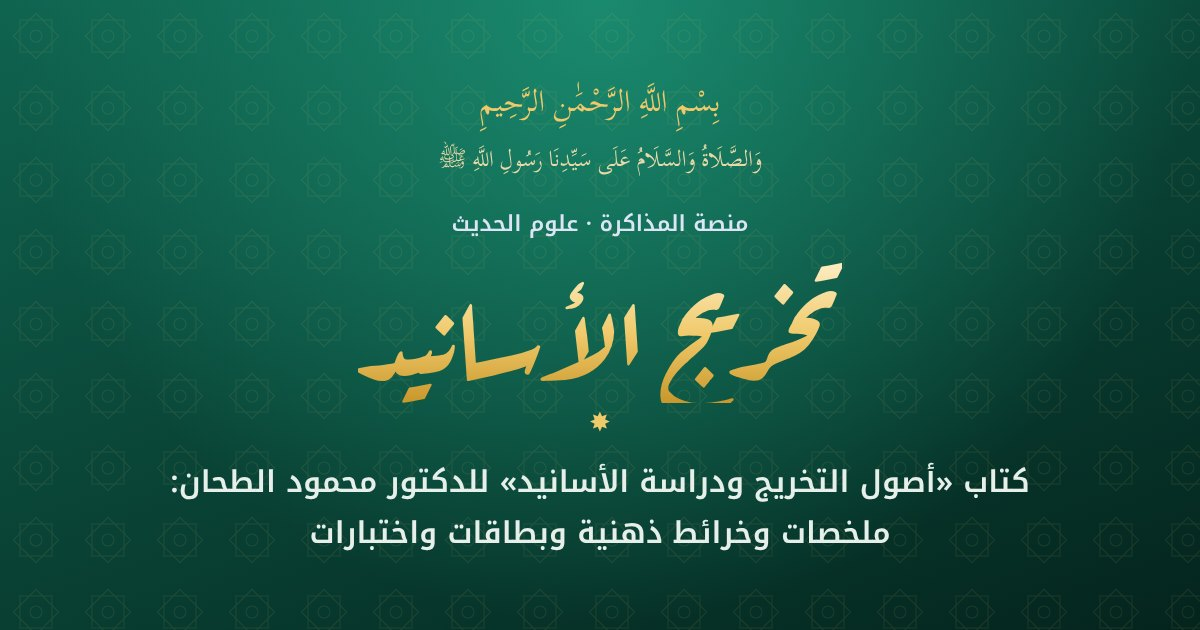
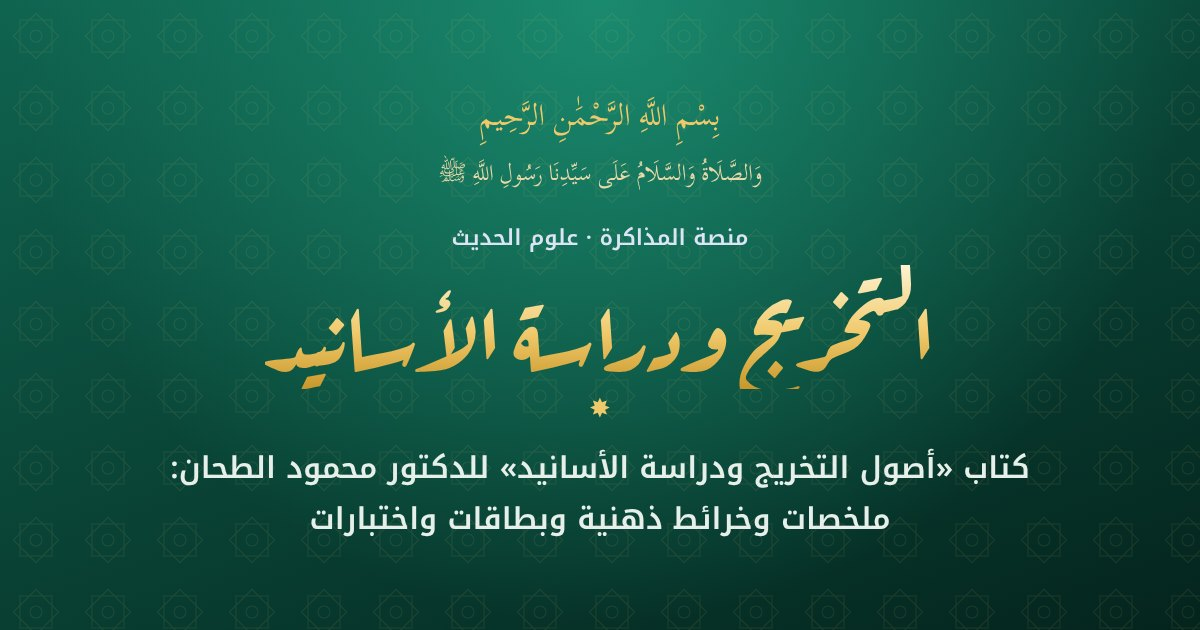
Rename the course to «التخريج ودراسة الأسانيد»
Updates the course page title, header, welcome text and link preview
image, and the cards on the main page and the Hadith page.

Claude-Session: https://claude.ai/code/session_01RsrmXs1WPRERcF1UDfTa9L

diff --git a/hadith/TakhreejAsaneedAQU.html b/hadith/TakhreejAsaneedAQU.html
@@ -1,4 +1,4 @@
-<!doctype html><html><head><meta charset="utf-8"><meta name="viewport" content="width=device-width,initial-scale=1,viewport-fit=cover"><style>[hidden]{display:none!important}body{margin:0}</style><link rel="icon" href="https://manassa-study.github.io/Tafseer/favicon.png" type="image/png" sizes="48x48"><link rel="icon" href="https://manassa-study.github.io/Tafseer/favicon.svg" type="image/svg+xml"><link rel="apple-touch-icon" href="https://manassa-study.github.io/Tafseer/apple-touch-icon.png"><title>تخريج الأسانيد — منصة المذاكرة</title><meta name="description" content="كتاب «أصول التخريج ودراسة الأسانيد» للدكتور محمود الطحان: ملخصات وخرائط ذهنية وبطاقات واختبارات، على منصة المذاكرة."><meta name="theme-color" content="#083d32"><meta property="og:title" content="تخريج الأسانيد — منصة المذاكرة"><meta property="og:description" content="كتاب «أصول التخريج ودراسة الأسانيد» للدكتور محمود الطحان: ملخصات وخرائط ذهنية وبطاقات واختبارات، على منصة المذاكرة."><meta property="og:type" content="website"><meta property="og:site_name" content="منصة المذاكرة"><meta property="og:url" content="https://manassa-study.github.io/hadith/TakhreejAsaneedAQU.html"><meta property="og:image" content="https://manassa-study.github.io/hadith/og-takhreej.jpg"><meta property="og:image:width" content="1200"><meta property="og:image:height" content="630"><meta property="og:locale" content="ar_AR"><meta name="twitter:card" content="summary_large_image"><meta name="twitter:image" content="https://manassa-study.github.io/hadith/og-takhreej.jpg"></head><body>
+<!doctype html><html><head><meta charset="utf-8"><meta name="viewport" content="width=device-width,initial-scale=1,viewport-fit=cover"><style>[hidden]{display:none!important}body{margin:0}</style><link rel="icon" href="https://manassa-study.github.io/Tafseer/favicon.png" type="image/png" sizes="48x48"><link rel="icon" href="https://manassa-study.github.io/Tafseer/favicon.svg" type="image/svg+xml"><link rel="apple-touch-icon" href="https://manassa-study.github.io/Tafseer/apple-touch-icon.png"><title>التخريج ودراسة الأسانيد — منصة المذاكرة</title><meta name="description" content="كتاب «أصول التخريج ودراسة الأسانيد» للدكتور محمود الطحان: ملخصات وخرائط ذهنية وبطاقات واختبارات، على منصة المذاكرة."><meta name="theme-color" content="#083d32"><meta property="og:title" content="التخريج ودراسة الأسانيد — منصة المذاكرة"><meta property="og:description" content="كتاب «أصول التخريج ودراسة الأسانيد» للدكتور محمود الطحان: ملخصات وخرائط ذهنية وبطاقات واختبارات، على منصة المذاكرة."><meta property="og:type" content="website"><meta property="og:site_name" content="منصة المذاكرة"><meta property="og:url" content="https://manassa-study.github.io/hadith/TakhreejAsaneedAQU.html"><meta property="og:image" content="https://manassa-study.github.io/hadith/og-takhreej.jpg"><meta property="og:image:width" content="1200"><meta property="og:image:height" content="630"><meta property="og:locale" content="ar_AR"><meta name="twitter:card" content="summary_large_image"><meta name="twitter:image" content="https://manassa-study.github.io/hadith/og-takhreej.jpg"></head><body>
 <meta name="claude:viewport-fit-sides" content="cover">
 <script>document.documentElement.setAttribute("dir","rtl");document.documentElement.setAttribute("lang","ar");try{var _t=JSON.parse(localStorage.getItem("takhreej-asaneed-v1")||"{}").theme;}catch(e){}document.documentElement.setAttribute("data-theme",_t==="dark"?"dark":"light");</script>
 <link rel="preconnect" href="https://fonts.googleapis.com">
@@ -649,7 +649,7 @@ main{min-width:0}
     <a class="brand" href="#home">
       <span class="brand-mark" aria-hidden="true">ت</span>
       <span class="brand-txt">
-        <span class="brand-t">تخريج الأسانيد</span>
+        <span class="brand-t">التخريج ودراسة الأسانيد</span>
         <span class="brand-s">منصة المذاكرة · ص ٧ - ٢٠٥</span>
       </span>
     </a>
@@ -684,7 +684,7 @@ main{min-width:0}
   <div class="gate-card">
     <div class="gate-mark" aria-hidden="true">ت</div>
     <div class="dhero-greet" style="text-align:center">أهلاً بك في منصة المذاكرة</div>
-    <h1 id="gateT" class="gate-t">تخريج الأسانيد</h1>
+    <h1 id="gateT" class="gate-t">التخريج ودراسة الأسانيد</h1>
     <p class="gate-p">قبل الدخول، سجّل اسمك ورقمك الجامعي وبريدك الإلكتروني في نموذج التسجيل. يستغرق ذلك أقل من دقيقة.</p>
     <ol class="gate-steps"><li>اضغط «افتح نموذج التسجيل» وأرسل بياناتك.</li><li>بعد الإرسال اضغط رابط المنصة في رسالة التأكيد، أو ارجع إلى هذه الصفحة.</li><li>اضغط «سجّلت، ادخل المنصة».</li></ol>
     <a class="btn gold" id="gateForm" target="_blank" rel="noopener" href="#">افتح نموذج التسجيل ↗</a>
@@ -696,7 +696,7 @@ main{min-width:0}
   <div class="wel-card" id="welIntro">
     <div class="gate-mark" aria-hidden="true">ت</div>
     <div class="wel-k">السلام عليكم ورحمة الله وبركاته</div>
-    <h2 id="welT" class="wel-t">أهلاً بك في منصة مذاكرة تخريج الأسانيد</h2>
+    <h2 id="welT" class="wel-t">أهلاً بك في منصة مذاكرة التخريج ودراسة الأسانيد</h2>
     <p class="wel-p">أخي القارئ، أختي القارئة: أسأل الله أن يجعل هذه المنصة عوناً لك على خدمة سنة نبيه ﷺ وفهمها، وأن يرزقك العلم النافع والعمل الصالح، ويفتح عليك فتوح العارفين، ويكتب لك التوفيق والنجاح في دراستك واختبارك.</p>
     <div class="ayah" style="font-size:24px;line-height:1.8">﴿وَقُل رَّبِّ زِدْنِي عِلْمًا﴾ <span class="ref">[طه: ١١٤]</span></div>
     <div class="wel-dua">
@@ -899,7 +899,7 @@ function viewHome(){
       <div class="dhero-txt">
         <div class="dhero-by"><span>إعداد وتصميم</span><b>محمد بلال البلوشي</b></div>
         <div class="dhero-greet">${greet} · لوحة المذاكرة</div>
-        <h1 class="dhero-title">تخريج الأسانيد</h1>
+        <h1 class="dhero-title">التخريج ودراسة الأسانيد</h1>
         <p class="dhero-sub">كتاب «${esc(META.title)}» · تأليف ${esc(META.authors.split("،")[0])}</p>
         <div class="row" style="margin-top:6px">
           <a class="btn gold" href="#study-${next.id}">${S.last?"تابع من حيث توقفت":"ابدأ الدراسة"} ←</a>
@@ -1065,7 +1065,7 @@ function viewReview(tab){
   if(tab==="tables")R.innerHTML=`<div class="stack">${TB.map(tb=>`<section class="cmp"><h3>${rich(tb.title)}</h3><div style="overflow-x:auto"><table><thead><tr>${tb.headers.map(h=>`<th>${esc(h)}</th>`).join("")}</tr></thead><tbody>${tb.rows.map(r=>`<tr>${r.map((c,i)=>`<td data-h="${esc(tb.headers[i])}">${rich(c)}</td>`).join("")}</tr>`).join("")}</tbody></table></div></section>`).join("")}</div>`;
   if(tab==="capsules")R.innerHTML=`<div class="caps">${CAPS.map(g=>`<section class="card"><h3>${esc(g.title)}</h3><ul>${g.items.map(it=>`<li><b>${rich(it.k)}</b> ${rich(it.v)}</li>`).join("")}</ul></section>`).join("")}</div>`;
   if(tab==="sheet"){R.innerHTML=`<div class="sheet"><div class="sheet-bar no-print"><p>كل المطالب في صفحات قليلة: خلاصة كل مطلب في ثلاثة أسطر، ثم كبسولات الحفظ. اطبعها أو احفظها PDF.</p><button class="btn primary" id="shPrint">اطبع الملزمة</button></div>
-    <header class="sheet-h"><b>ملزمة مراجعة «تخريج الأسانيد»</b><span>${toAr(TOPICS.length)} مطلباً · ص ١ - ${toAr(Math.max(...TOPICS.map(t=>t.to)))}</span></header>
+    <header class="sheet-h"><b>ملزمة مراجعة «التخريج ودراسة الأسانيد»</b><span>${toAr(TOPICS.length)} مطلباً · ص ١ - ${toAr(Math.max(...TOPICS.map(t=>t.to)))}</span></header>
     ${CH.map(c=>`<section class="sh-ch"><h2>${esc(c.title)}</h2>${c.sections.map(s=>`<div class="sh-sec"><h3>${esc(s.title)}</h3>${s.topics.map(t=>`<div class="sh-t"><a href="#study-${t.id}"><b>${esc(t.short||t.title)}</b> <small>${esc(t.pages)}</small></a>${t.sum?`<ol>${t.sum.map(x=>`<li>${rich(x)}</li>`).join("")}</ol>`:""}</div>`).join("")}</div>`).join("")}</section>`).join("")}
     <section class="sh-ch"><h2>كبسولات الحفظ</h2><div class="sh-caps">${CAPS.map(g=>`<div class="sh-sec"><h3>${esc(g.title)}</h3><ul>${g.items.map(it=>`<li><b>${rich(it.k)}</b> ${rich(it.v)}</li>`).join("")}</ul></div>`).join("")}</div></section></div>`;
     $("#shPrint").onclick=()=>window.print();}

diff --git a/hadith.html b/hadith.html
@@ -4,7 +4,7 @@
 <meta charset="utf-8">
 <meta name="viewport" content="width=device-width,initial-scale=1,viewport-fit=cover">
 <title>منصة المذاكرة — علوم الحديث</title>
-<meta name="description" content="منصة مذاكرة مجانية لمقررات علوم الحديث: تخريج الأسانيد، بملخصات وخرائط واختبارات.">
+<meta name="description" content="منصة مذاكرة مجانية لمقررات علوم الحديث: التخريج ودراسة الأسانيد، بملخصات وخرائط واختبارات.">
 <meta name="theme-color" content="#083d32">
 <meta property="og:title" content="منصة المذاكرة — علوم الحديث">
 <meta property="og:type" content="website">
@@ -15,7 +15,7 @@
 <meta property="og:image:height" content="630">
 <meta property="og:locale" content="ar_AR">
 <meta name="twitter:card" content="summary_large_image">
-<meta property="og:description" content="منصة مذاكرة مجانية لمقررات علوم الحديث: تخريج الأسانيد، بملخصات وخرائط واختبارات.">
+<meta property="og:description" content="منصة مذاكرة مجانية لمقررات علوم الحديث: التخريج ودراسة الأسانيد، بملخصات وخرائط واختبارات.">
 <link rel="icon" href="https://manassa-study.github.io/Tafseer/favicon.png" type="image/png" sizes="48x48"><link rel="icon" href="https://manassa-study.github.io/Tafseer/favicon.svg" type="image/svg+xml"><link rel="apple-touch-icon" href="https://manassa-study.github.io/Tafseer/apple-touch-icon.png">
 <link rel="preconnect" href="https://fonts.googleapis.com">
 <link rel="preconnect" href="https://fonts.gstatic.com" crossorigin>
@@ -189,7 +189,7 @@ footer .du{font-family:var(--f-read);font-size:19px;color:var(--gold-ink);displa
       <div class="card-top">
         <span class="icon" aria-hidden="true"><svg viewBox="0 0 24 24" fill="none" stroke="currentColor" stroke-width="1.7" stroke-linecap="round" stroke-linejoin="round"><path d="M10 14a4 4 0 0 0 5.7 0l3-3a4 4 0 0 0-5.7-5.7l-1 1"/><path d="M14 10a4 4 0 0 0-5.7 0l-3 3a4 4 0 0 0 5.7 5.7l1-1"/></svg></span>
         <span class="badge">مقرر</span>
-        <h2>تخريج الأسانيد</h2>
+        <h2>التخريج ودراسة الأسانيد</h2>
         <p class="en">Takhrij &amp; Isnad Studies</p>
       </div>
       <div class="card-body">

diff --git a/index.html b/index.html
@@ -205,8 +205,8 @@ footer .du{font-family:var(--f-read);font-size:19px;color:var(--gold-ink);displa
         <p class="en">Hadith Sciences</p>
       </div>
       <div class="card-body">
-        <p>تخريج الأسانيد: طرق التخريج، وكتب الرجال، والجرح والتعديل، ودراسة الإسناد.</p>
-        <ul class="tags"><li>تخريج الأسانيد</li></ul>
+        <p>التخريج ودراسة الأسانيد: طرق التخريج، وكتب الرجال، والجرح والتعديل، ودراسة الإسناد.</p>
+        <ul class="tags"><li>التخريج ودراسة الأسانيد</li></ul>
         <span class="go">ادخل القسم <svg viewBox="0 0 24 24" fill="none" stroke="currentColor" stroke-width="2.4" stroke-linecap="round" stroke-linejoin="round"><path d="M19 12H5M11 6l-6 6 6 6"/></svg></span>
       </div>
     </a>
